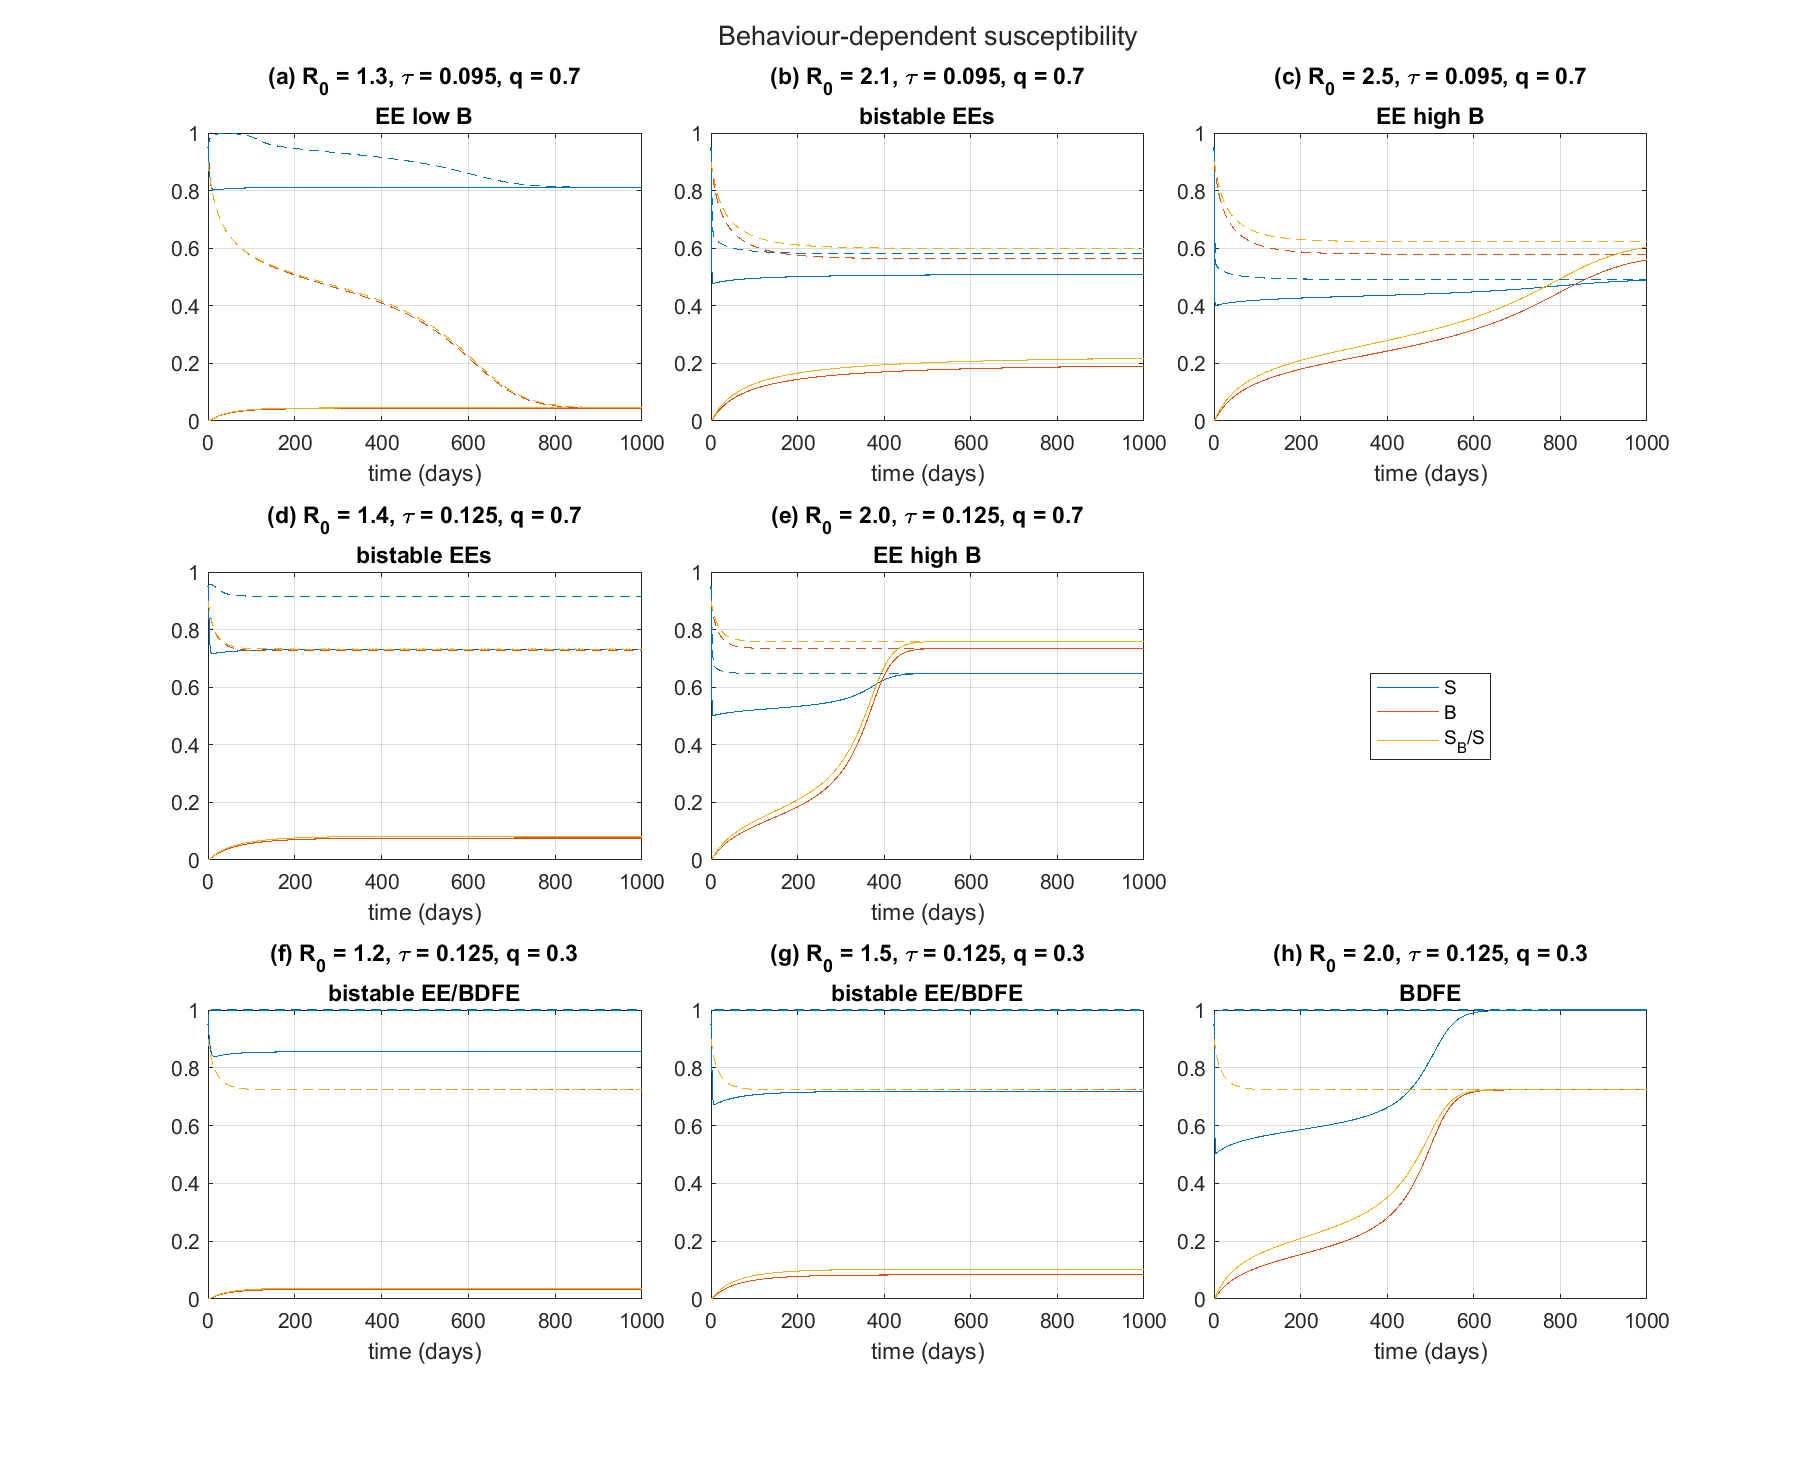
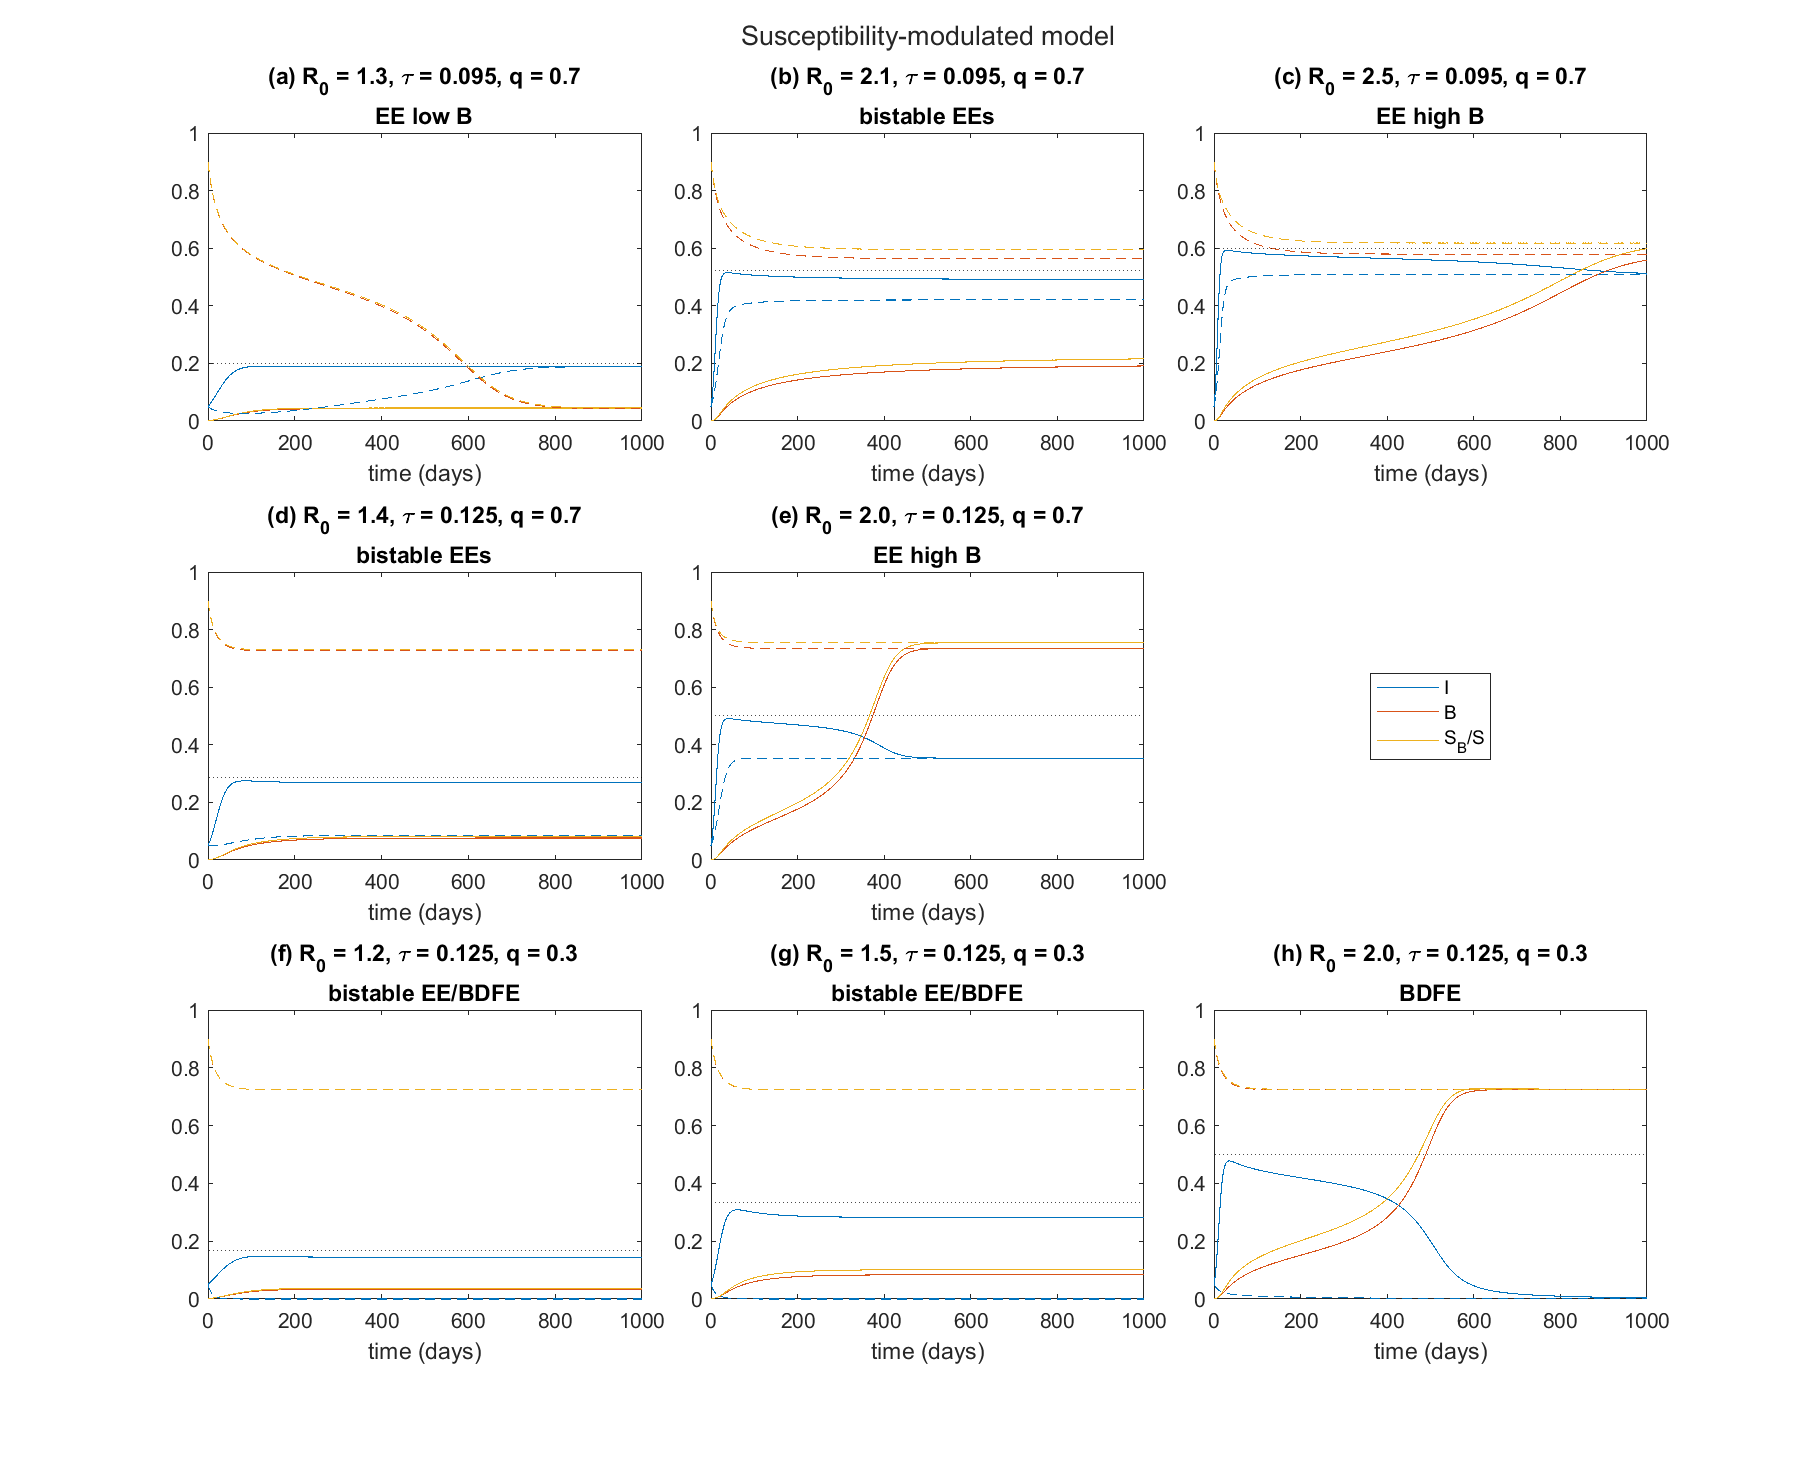
Updated plotting layout and started phase plots

diff --git a/runODEs.m b/runODEs.m
@@ -17,35 +17,55 @@ S0 = 0.95;
 % Time range        1000 for slow, 300 for fast
 tSpan = 0:1000;
 
+% Spacing for vector field arrow length plotting
+dx = 0.1;
+
+% Power for vector field arrow length plotting
+pQuiv = 0.5;      
+
 % Set ICs
 IC1 = [(1-B01)*S0; B01*S0; B01 ];
 IC2 = [(1-B02)*S0; B02*S0; B02 ];
 
 
+h = figure(1);
+h.Position = [ 89   126   931   864];
+tiledlayout(3, 3, "TileSpacing", "compact");
 
-% Do the same thing for the susceptibility and transmission versions of the
-% model
-for iType = 1:2
+h = figure(2);
+h.Position = [     164   409   931   562];
+tiledlayout(2, 3, "TileSpacing", "compact");
+
+h = figure(3);
+h.Position = [  300   126   931   864];
+tiledlayout(3, 3, "TileSpacing", "compact");
+
+% For each parameter combo, specify the figure and tile to put the results
+% in
+figNum = [ones(1, 3), 2*ones(1, 2), 3*ones(1, 3)];
+tileNum = [1, 4, 7, 1, 4, 1, 4, 7];
+
+
+desc = ["EE low B", "bistable EEs", "EE high B", "bistable EEs", "EE high B", "bistable EE/BDFE", "bistable EE/BDFE", "BDFE" ];
     
-    h = figure(iType);
-    h.Position = [   564          64        1165         934];
-    tiledlayout(3, 3, "TileSpacing", "compact");
-    
-    % Tiles to plot cases 1-98 in and description of dynamics
-    iPlot = [1, 2, 3, 4, 5, 7, 8, 9];
-    desc = ["EE low B", "bistable EEs", "EE high B", "bistable EEs", "EE high B", "bistable EE/BDFE", "bistable EE/BDFE", "BDFE" ];
-    
-    lbls = ["(a)", "(b)", "(c)", "(d)", "(e)", "(f)", "(g)", "(h)", "(i)"];
-    
-    % Run and plot each parameter combination in turn
-    for iCase = 1:nCases
-        par = getPar(iCase);
-    
+lbls = ["(a)", "(b)", "(c)", "(d)", "(e)", "(f)", "(g)", "(h)", "(i)", "(j)", "(k)", "(l)", "(m)", "(n)", "(o)" ];
+
+% Run and plot each parameter combination in turn
+for iCase = 1:nCases
+    par = getPar(iCase);
+
+    h = figure(figNum(iCase));
+
+
+
+    % Do the same thing for the susceptibility and transmission versions of the
+    % model
+    for iType = 1:2
         % Select which ODE model to run
         if iType == 1
-            ODE_handle = @(t, y)myODEs_suscept(t, y, par);
-        else
             ODE_handle = @(t, y)myODEs_trans(t, y, par);
+        else
+            ODE_handle = @(t, y)myODEs_suscept(t, y, par);
         end        
         
         % Run the two initial conditions
@@ -63,47 +83,89 @@ for iType = 1:2
         B2 = Y2(:, 3);
         S2 = SN2+SB2;
     
-        % Plot
-        nexttile(iPlot(iCase));
-        plot(t1, S1)
+
+        % Plot phase plane (for trans-modulated model only)
+        if iType == 1
+
+            % Evaluate vector field over a grid
+            sx = 0:dx:1;
+            by = 0:dx:1;
+            nx = length(sx);
+            ny = length(by);
+            U = zeros(ny, nx);
+            V = zeros(ny, nx);
+            for ix = 1:nx
+                for jy = 1:ny
+                    y = [sx(ix); by(jy)];
+                    dydt = myODEs_2D(0, y, par);
+                    U(jy, ix) = dydt(1);
+                    V(jy, ix) = dydt(2);
+                end
+            end
+            % Plot arrows with a power p of their real length so long
+            % vectors don't dominate too much
+            Z = sqrt(U.^2+V.^2);
+            U = U.*Z.^(pQuiv-1);
+            V = V.*Z.^(pQuiv-1);
+
+            iTile = tileNum(iCase);
+            nexttile(iTile);
+            quiver(sx, by, U, V, 'Color', [0.2 0.7 0.2]);
+            hold on
+            ha = gca;
+            ha.ColorOrderIndex = 1;
+            plot(S1, B1)
+            ha.ColorOrderIndex = 1;
+            plot(S2, B2)
+
+            xlim([0 1])
+            ylim([0 1])
+            xlabel('S')
+            ylabel('B')
+            title("R_0 = " + sprintf('%.2f', par.Beta/par.Gamma) + ", " + desc(iCase) + newline + lbls(iTile))
+        end
+
+
+        % Plot time series
+        iTile = tileNum(iCase) + iType; 
+        nexttile(iTile);
+        plot(t1, 1-S1)
         hold on
         plot(t1, B1)
-        if iType == 1
+        if iType == 2
             % Only need to plot S_B/S for the susceptibility model as it is
             % identical to B in the transmission model
             plot(t1, SB1./S1)
         end
         ha = gca;
         ha.ColorOrderIndex = 1;
-        plot(t2, S2, '--')
+        plot(t2, 1-S2, '--')
         plot(t2, B2, '--')
-        if iType == 1
+        if iType == 2
             % Only need to plot S_B/S for the susceptibility model as it is
             % identical to B in the transmission model
             plot(t2, SB2./S2, '--')
         end
+        % Plot equilibrium without behaviour I = 1-1/R0
+        yline(1-par.Gamma/par.Beta, 'k:');
         ylim([0 1])
-        grid on
         xlabel('time (days)')
-        title(lbls(iCase) + " R_0 = " + sprintf('%.1f', par.Beta/par.Gamma) +  ", \tau = " + sprintf('%.3f', par.Tau) +  ", q = " + sprintf('%.1f\n', par.q) + desc(iCase))
-    
+        title(lbls(iTile))
     end
-    
-    
-    if iType == 1   
-        l = legend('S', 'B', 'S_B/S');
-    else
-        l = legend('S', 'B');
-    end
-    l.Layout.Tile = 6;
-    
-    if iType == 1
-        sgtitle('Behaviour-dependent susceptibility')
-        fName = figFolder + "time_series_diff_susceptibility.png";
-    else
-        sgtitle('Behaviour-dependent transmission')
-        fName = figFolder + "time_series_diff_transmission.png";
-    end
-    saveas(h, fName);
 
+
+
+     if ismember(iCase, [1 4 6])
+        sgtitle("\tau/\alpha = " + sprintf('%.1f', par.Tau/par.Alpha) + ", q = " +sprintf('%.1f', par.q) );
+        nexttile(2);  
+        lgd = legend('I', 'B', 'Location', 'northeast');
+        nexttile(3);
+        lgd = legend('I', 'B', 'S_B/S', 'Location', 'northeast');
+    end
+end
+
+for iFig = 1:3
+    h = figure(iFig);
+    fName = figFolder + "fig_cases" + iFig + ".png";
+    saveas(h, fName);
 end

diff --git a/main.m b/main.m
@@ -14,8 +14,12 @@ b = 0.2;
 % Range of R0 to plot
 R0 = 0.5:0.01:2.5;
 
-
+% Number of values of tau/alpha being plotted
 nCases = length(a_vec);
+
+% Number of parameter combinations to add as points for each case
+nPoints = [3, 5];
+
 
 cols = hsv(5);
 h = figure(1);
@@ -24,6 +28,15 @@ tiledlayout(1, nCases, "TileSpacing", "compact");
 
 for iCase = 1:nCases
     a = a_vec(iCase);
+
+    % Calculate parameter points to be plotted
+    firstPoint = [1, 1+cumsum(nPoints(1:end-1))];
+    [R0point, qpoint] = deal(zeros(1, nPoints(iCase)));
+    for iPoint = 1:nPoints(iCase)
+        par = getPar(firstPoint(iCase) + iPoint-1 );
+        R0point(iPoint) = par.Beta/par.Gamma;
+        qpoint(iPoint) = par.q;
+    end
     
     % BDFEs
     Bstar = 0.5 * (1 + [1, -1]*sqrt(1-4/a));
@@ -95,22 +108,28 @@ for iCase = 1:nCases
     end
     % Plot SNB2
     plot(RSNB2, qv, 'color', cols(4, :), 'LineWidth', 2, 'LineStyle', '--')
+    % Plot parameter point
+    plot(R0point, qpoint, 'o', 'color', 'k')
     % Plot the transcritical bifurcation of DFE and EE
     xline(1, 'k-', 'LineWidth', 2)
     xlim([0, max(R0)])
     ylim([0 1])
     xlabel('R_0')
     ylabel('q')
+
+
+
+
     % Add region labels
     if iCase == 1
         text(0.4, 0.5, 'NDFE')
         text(1.3, 0.3, 'EE low B')
-        text(1.7, 0.7, 'EE+EE')
+        text(1.65, 0.8, 'EE+EE')
         text(2.05, 0.9, 'EE high B')
     else
         text(0.2 ,0.5, 'NDFE+BDFE')
         text(1.15, 0.9, 'EE+EE')
-        text(1.9, 0.7, 'EE high B')
+        text(1.9, 0.6, 'EE high B')
         text(1.16, 0.48, 'EE+BDFE')
         text(1.9, 0.15, 'BDFE')
         text(1.04, 0.15, 'EE+')

diff --git a/getPar.m b/getPar.m
@@ -12,7 +12,8 @@ if iCase == 1
     par.q = 0.7;
 elseif iCase == 2
     par.Tau = 3.8 * par.Alpha;
-    par.Beta = 0.42;
+    %par.Beta = 0.42;
+    par.Beta = 0.35;
     par.q = 0.7;
 elseif iCase == 3
     par.Tau = 3.8 * par.Alpha;
@@ -28,15 +29,18 @@ elseif iCase == 5
     par.q = 0.7;
 elseif iCase == 6
     par.Tau = 5 * par.Alpha;
-    par.Beta = 0.24;
+    %par.Beta = 0.24;
+    par.Beta = 0.23;
     par.q = 0.3;
 elseif iCase == 7
     par.Tau = 5 * par.Alpha;
-    par.Beta = 0.3;
+    %par.Beta = 0.3;
+    par.Beta = 0.28;
     par.q = 0.3;
 else
     par.Tau = 5 * par.Alpha;
-    par.Beta = 0.4;
+    %par.Beta = 0.4;
+    par.Beta = 0.36;
     par.q = 0.3;
 end
 

diff --git a/myODEs_2D.m b/myODEs_2D.m
@@ -1,0 +1,18 @@
+function dydt = myODEs_2D(t, y, par)
+
+% Functiopn to evaluate the ODEs for the behaviour-dependent transmission
+% version of the model
+
+S = y(1);
+B = y(2);
+
+
+Omega = par.Tau*B^2 + par.Chi*(1-S);
+
+Lambda = par.Beta * (1-S) * (1-B+par.q*B);
+
+dSdt = -Lambda*S + par.Gamma*(1-S); 
+dBdt = Omega*(1-B) - par.Alpha*B;
+
+dydt = [dSdt; dBdt];
+
